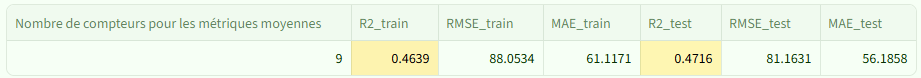
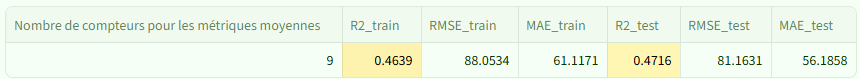
Ajustement régression linéaire + reformulation page home

Changed region(s): [[0.0, 0.5128, 0.9977, 1.0], [0.0, 0.2308, 0.9674, 0.4103], [0.0, 0.0513, 0.9977, 0.0769]]

diff --git a/app/sections/home.py b/app/sections/home.py
@@ -10,7 +10,7 @@ st.markdown(
 st.info(
     '''
     👈 Utilisez le menu de navigation latéral pour explorer :
-    - La présentation de la démarche projet et nos résultats et conclusions
+    - La présentation de la démarche projet ainsi que nos résultats et conclusions
     - L'exploration intéractive des statistiques après la phase de préparation
       des données
     - La visualisation graphique et intéractive des données préparées pour la
